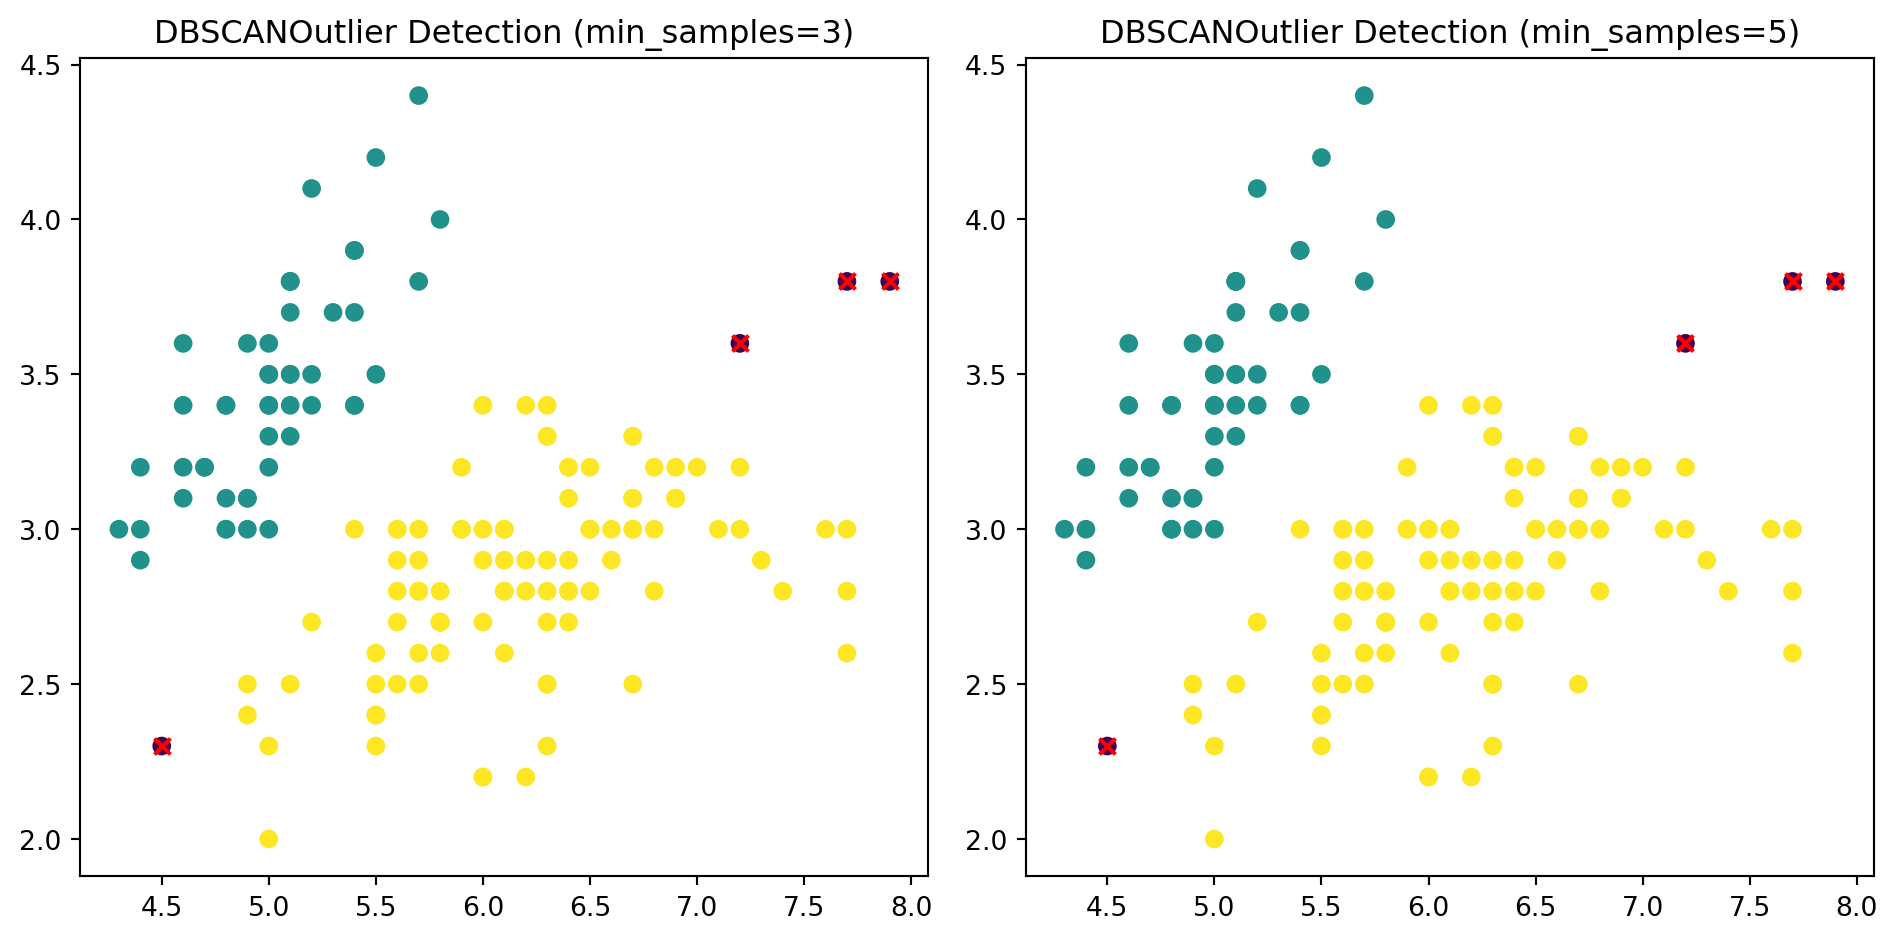
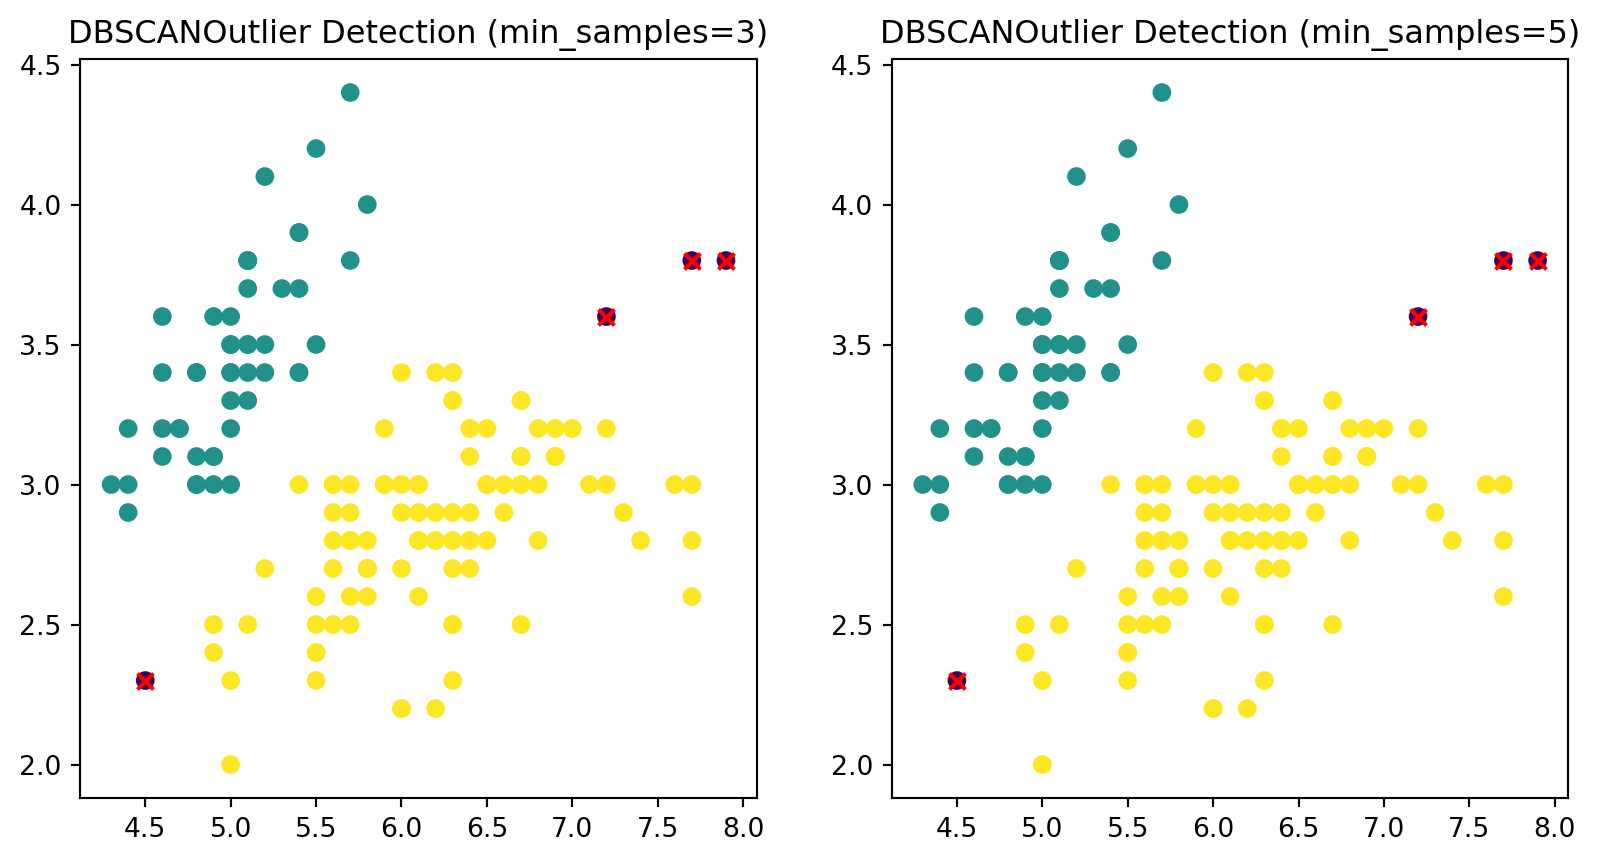
most recent updates unfrozen

diff --git a/docs/posts/5-anomaly/index.html b/docs/posts/5-anomaly/index.html
@@ -327,10 +327,10 @@ Number of outliers: 120</code></pre>
 <p>#Create a DBSCAN object for min_samples=5 and fit the data dbscan2= DBSCAN(eps=0.9, min_samples=5) clusters2= dbscan2.fit_predict(X_std)</p>
 <p>#Get the cluster labels and identify the outliers labels2= dbscan2.labels_ outliers2= np.where(labels2 == -1)[0]</p>
 <p>#Plot the data with the outliers highlighted on the second subplot axs[1].scatter(X[:,0], X[:, 1], c=labels2) axs[1].scatter(X[outliers2,0], X[outliers2, 1], c=“red”, marker=“x”) axs[1].set_title(“DBSCANOutlier Detection (min_samples=5)”)</p>
-<p>#Display the figure plt.tight_layout() plt.show() ```</p>
-<p>::: {.cell-output .cell-output-display} <img src="index_files/figure-html/cell-6-output-1.png" width="949" height="470"> ::: :::</p>
+<p>#Display the figure plt.show() ```</p>
+<p>::: {.cell-output .cell-output-display} <img src="index_files/figure-html/cell-6-output-1.png" width="800" height="431"> ::: :::</p>
 <p>In both of these plots the model only estimated 2 clusters, however, these clusters look much closer to what we expect than in the previous plots. The number of outliers are also significantly lower than in all previous models. The outliers identified appear to belong to what should be the third cluster, and all other points from that cluster are included in the second cluster.</p>
-<p>DBSCAN is not perfect and requires tuning the hyper-parameters for best results, however, is a useful visualization method for identifying anomalies.</p>
+<p>DBSCAN is not perfect and requires tuning the hyper-parameters for best results, however, it is a useful visualization method for identifying anomalies.</p>
 <section id="references" class="level2">
 <h2 class="anchored" data-anchor-id="references">References:</h2>
 <ul>

diff --git a/docs/index.html b/docs/index.html
@@ -257,7 +257,7 @@ Sarah Ramboyong
 </a>
 </div>
 </div>
-<div class="quarto-post image-right" data-index="3" data-listing-date-sort="1701838800000" data-listing-file-modified-sort="1701932833020" data-listing-date-modified-sort="NaN" data-listing-reading-time-sort="6">
+<div class="quarto-post image-right" data-index="3" data-listing-date-sort="1701838800000" data-listing-file-modified-sort="1701933049643" data-listing-date-modified-sort="NaN" data-listing-reading-time-sort="6">
 <div class="thumbnail">
 <p><a href="./posts/4-classification/index.html"> <img src="./posts/4-classification/classification_image.jpg" class="thumbnail-image"> </a></p>
 </div>
@@ -285,7 +285,7 @@ Sarah Ramboyong
 </a>
 </div>
 </div>
-<div class="quarto-post image-right" data-index="4" data-listing-date-sort="1701838800000" data-listing-file-modified-sort="1701932757436" data-listing-date-modified-sort="NaN" data-listing-reading-time-sort="5">
+<div class="quarto-post image-right" data-index="4" data-listing-date-sort="1701838800000" data-listing-file-modified-sort="1701933055928" data-listing-date-modified-sort="NaN" data-listing-reading-time-sort="5">
 <div class="thumbnail">
 <p><a href="./posts/5-anomaly/index.html"> <img src="./posts/5-anomaly/anomaly_image.png" class="thumbnail-image"> </a></p>
 </div>
